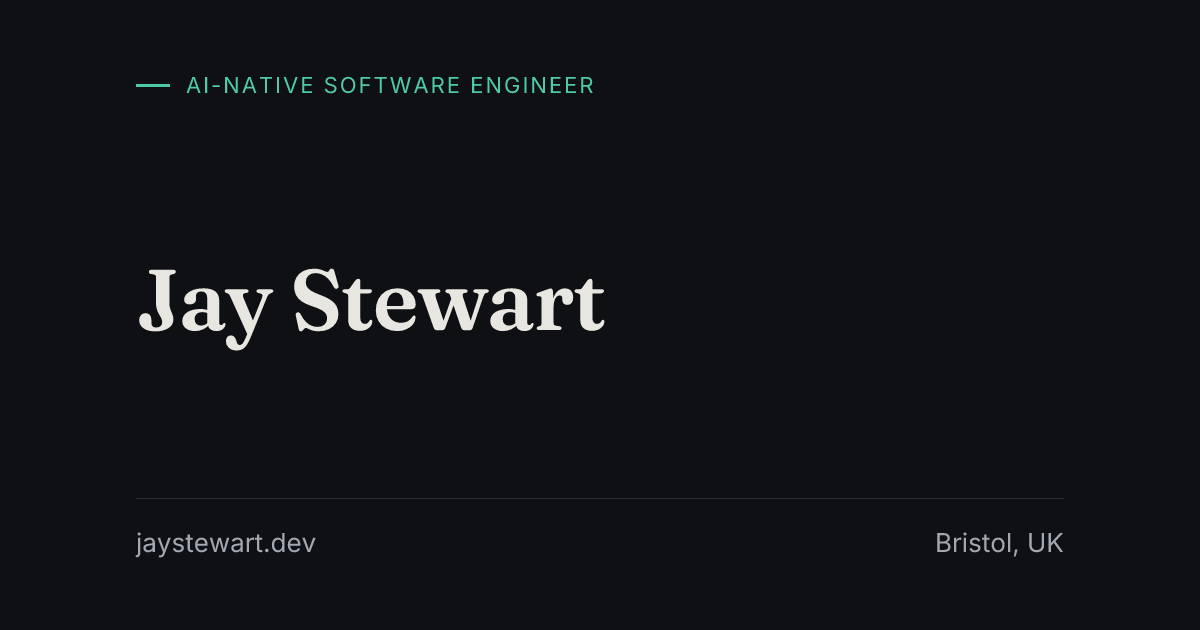
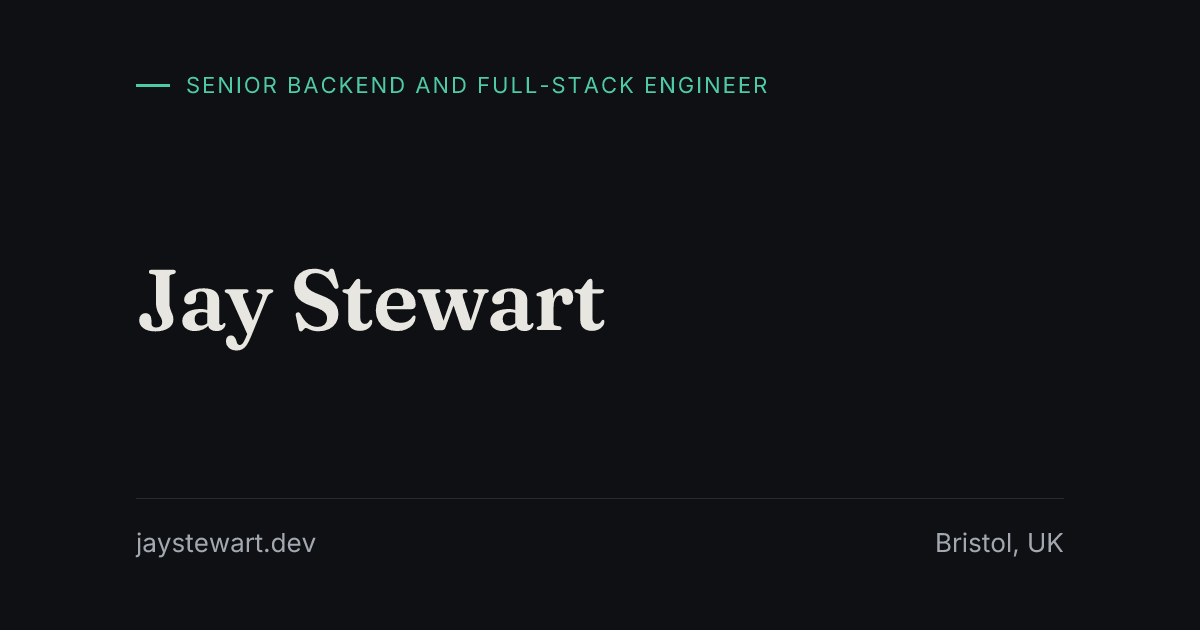
Lead with the systems, not the method — and put the ask first
The contracting assessment (hq, record/reviews/2026-08-24-contracting-
assessment.md) boarded the same inversion for LinkedIn on 09-05 and left this
site out, while the CV puts jaystewart.dev and the GitHub profile in its header
line — so both surfaces get read by everyone the CV reaches, and both still
opened with the method.

Part five of that review is the rule: they are buying a senior engineer who
ships, and the agent practice is the tiebreak that makes him memorable rather
than the pitch. Led the other way round, "AI agents write most of the code"
reads to a sceptical hiring manager as "he cannot code".

So:

- The H1, the meta description, the tagline, the role and the default social
  card lead with the systems and the span. The counted agent claim stays, in
  the fourth paragraph, in the form the 2026-08-20 authorship audit supports.
- The home page's primary call to action is contract availability; the
  research conversation — "twenty minutes, nothing sold" — is the secondary
  ask underneath it, and keeps its own mail subject so the two do not thread
  together.
- The availability answer appears verbatim as delivery-co/contracting.md
  settled it: UK-based and available now, on a temporary working trip abroad,
  daily overlap from about 13:00 UK, back in the UK early in the engagement.
  The contact page's location line said "abroad until early 2027", which
  contradicted it.
- Two paragraphs of day-rate history that no public surface said plainly:
[…]

Changed region(s): [[0.1542, 0.1206, 0.6475, 0.1508]]

diff --git a/src/data/site.ts b/src/data/site.ts
@@ -11,7 +11,7 @@ import { careerStartYear } from './experience.ts';
 export const site = {
   name: 'Jay Stewart',
   origin: 'https://jaystewart.dev',
-  role: 'AI-native software engineer',
+  role: 'Senior backend and full-stack engineer',
   location: 'Bristol, UK',
   locality: 'Bristol',
   region: 'England',
@@ -23,26 +23,28 @@ export const site = {
 
   /**
    * Used as the default meta description and the OG description on the home
-   * page, and as the JSON-LD description of the site. It leads with the
-   * measured practice because that is what the site now argues: evidence of
-   * AI-native engineering, not an offer. (The audit-offer version of this
-   * string was retired 2026-08-16 with the strategy that needed it.)
+   * page, and as the JSON-LD description of the site.
+   *
+   * It leads with the systems and stopped leading with the method on
+   * 2026-08-25. The reader this site is written for changed: the primary
+   * route is a 3-to-6-month contract, so the person reading this string is a
+   * hiring manager or a contract recruiter, and to that reader "agents write
+   * most of the code" as an opening reads as "he cannot code". The practice
+   * is the tiebreak that makes the candidate memorable, never the pitch —
+   * hq, record/reviews/2026-08-24-contracting-assessment.md, part five. So
+   * the counted claim stays, second. (The audit-offer version of this string
+   * was retired 2026-08-16 with the strategy that needed it; the research
+   * framing that replaced it was demoted here for the same kind of reason.)
    *
    * Experience is a span rather than a years figure, interpolated from the
    * same `roles` array the About-page timeline renders — see
    * `careerStartYear` for the two occasions a duration was wrong here, and
    * for why a more careful duration was not the fix.
-   *
-   * "Write most of the code" is deliberately not the whole sentence any more.
-   * It is the counted claim and it stays first, but agents operate the
-   * servers, deploys and release path here too, and a description that stops
-   * at code generation describes something narrower than the practice the
-   * case study documents.
    */
-  description: `Production systems where AI agents write most of the code — and operate the servers, deploys and release path around it. Run inside verification gates and measured from git history. Backend engineering since ${careerStartYear()}, either side of a six-year break, now researching what AI-native delivery actually changes.`,
+  description: `Senior backend and full-stack engineer — production systems where being wrong costs somebody money, since ${careerStartYear()}. E-commerce and payments in Bristol, then a live scheduling, payments and video platform on Next.js, React Native and Postgres. Built almost entirely with coding agents, inside verification gates measured from git history. UK-based and available for contract work.`,
 
   /** Short form, used in the footer and structured data. */
-  tagline: 'AI-native software engineer · agent-operated production systems, measured',
+  tagline: 'Senior backend and full-stack engineer · production systems where money moves',
 } as const;
 
 /**
@@ -54,8 +56,22 @@ export const site = {
  * every entry point must carry the same subject line, so that replies thread
  * as one conversation rather than several. The subject deliberately invites
  * a conversation rather than naming an offer — there is none published.
+ *
+ * As of 2026-08-25 this is the *secondary* ask. `contractMailto` below is the
+ * primary one.
  */
 export const conversationMailto = `mailto:${site.email}?subject=${encodeURIComponent('Agents in your team')}`;
+
+/**
+ * Prefilled mailto for the ask the site now leads with: availability for a
+ * 3-to-6-month contract.
+ *
+ * Two subjects rather than one, deliberately. They are different
+ * conversations with different people — a hiring manager with a role to fill,
+ * and an engineering team comparing notes on agent practice — and threading
+ * them together would lose which of the two an inbox is looking at.
+ */
+export const contractMailto = `mailto:${site.email}?subject=${encodeURIComponent('Contract availability')}`;
 
 export type NavItem = {
   readonly href: string;
